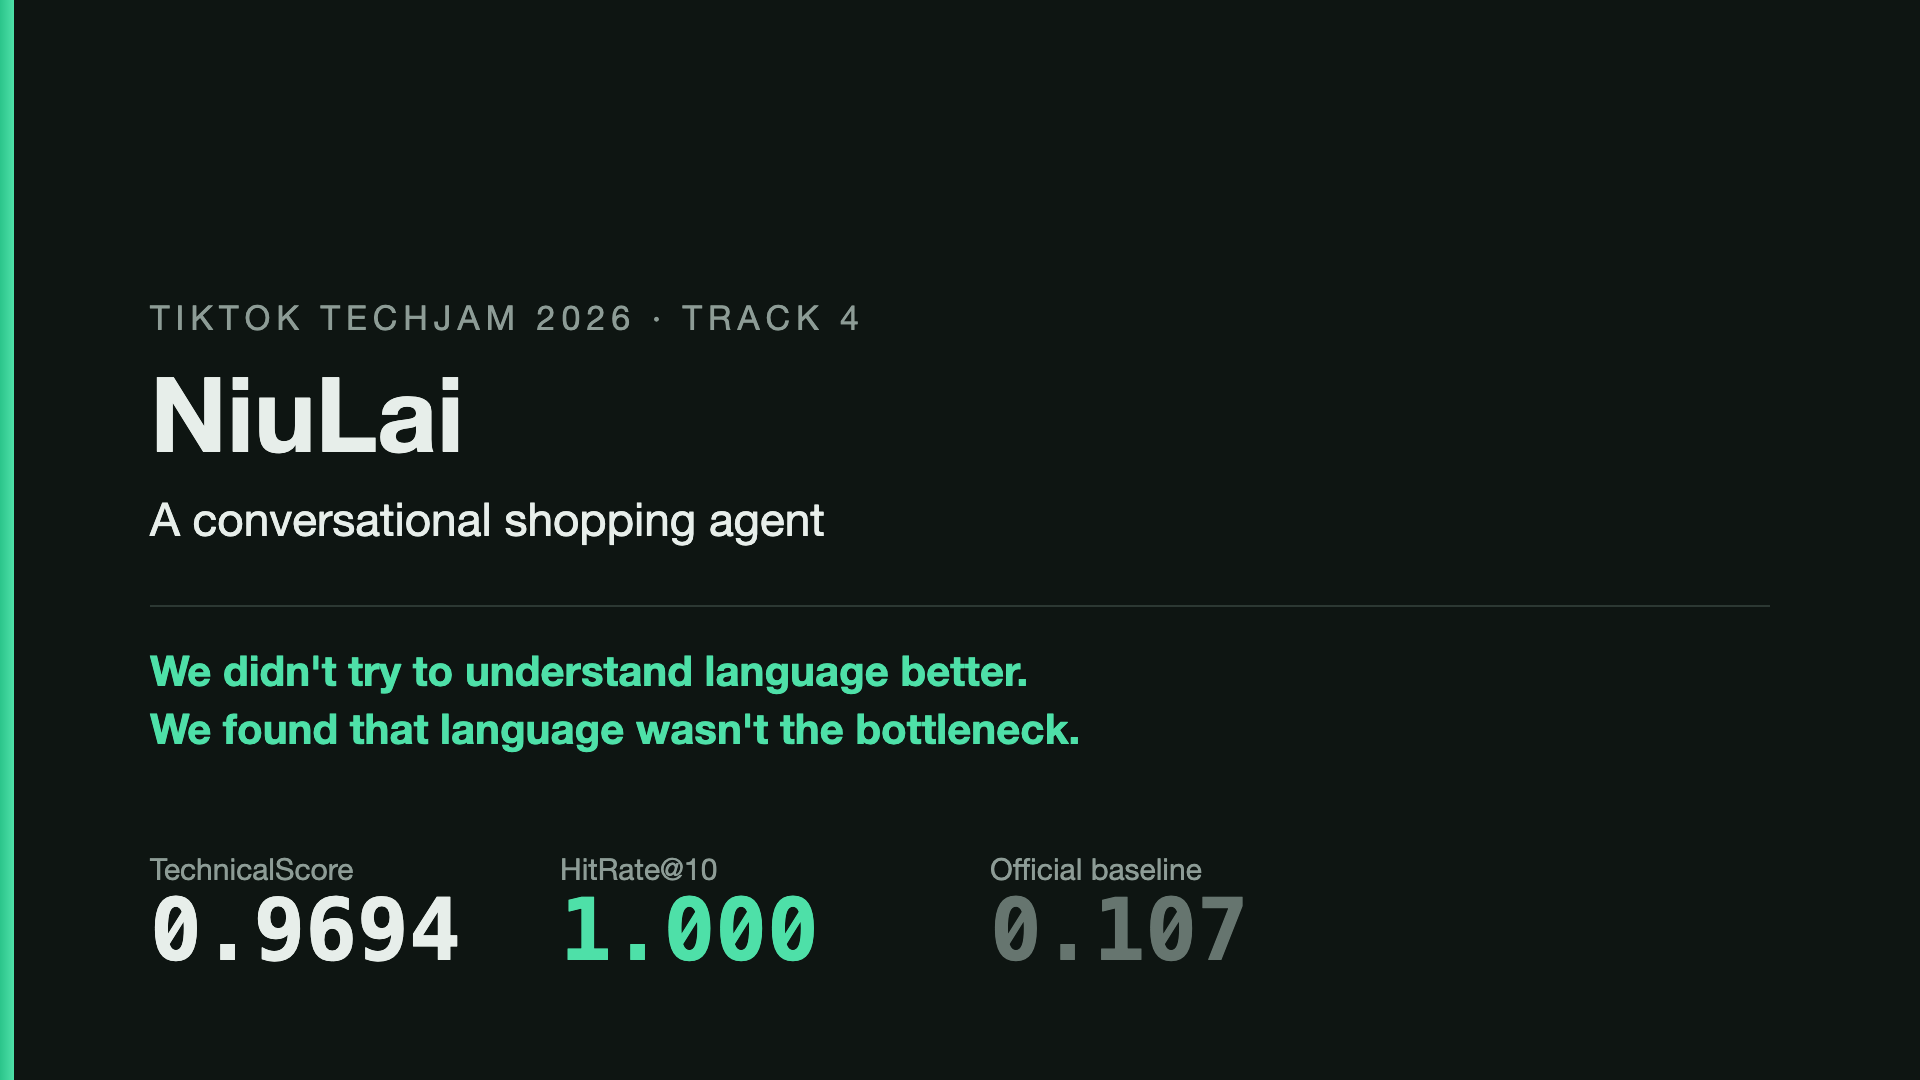
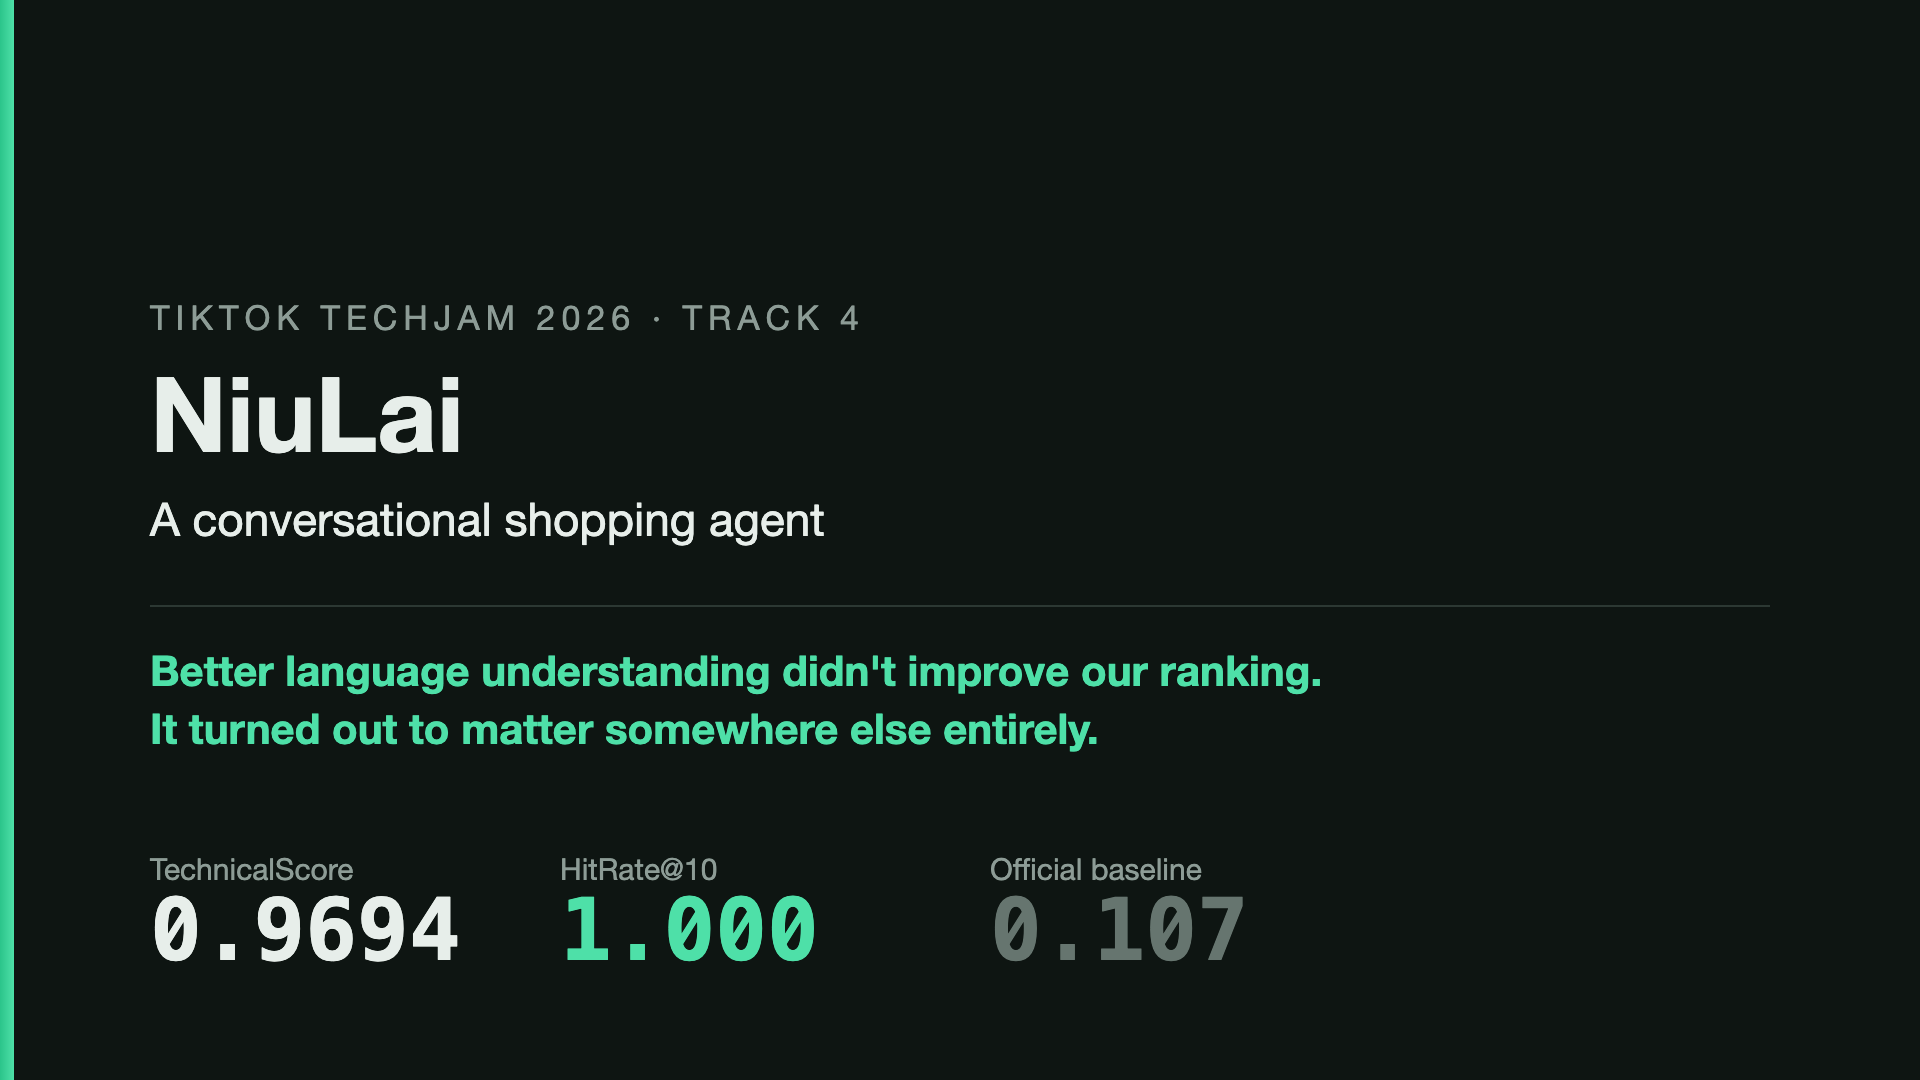
采纳 @BestBucky 的主张修正，并补上他没提到的一处：幕 5 从没还账
【他抓到的矛盾成立，是我漏了】
  片头卡原句 "We didn't try to understand language better. We found that language
  wasn't the bottleneck." 与 REPORT §5 直接矛盾——§5 说改写场景下语义是唯一能
  救回逐字信号的东西，实验 33 是 L4 规则 0.8486 → 加 LLM **0.9551**（+0.107，
  全项目单项最大的鲁棒性收益）。那句话只在**排序**维成立。
  已改为他推荐的版本："Better language understanding didn't improve our ranking.
  It turned out to matter somewhere else entirely."

【但采纳它有个前提，他没提到——我查了，幕 5 根本没还账】
  他的理由是"片头埋钩子、片尾还账"。查现稿：幕 5 只讲了 LLM 精排变差、
  以及我们量了改写风险，**从头到尾没有一句说 LLM 在理解上不可替代**。
  采纳新措辞会留下一个开了不关的钩子，那比直接下结论更糟。

  故同时给幕 5 补还账句：
    "And that is where the language model earned its place — not in ranking
     products, but in understanding a shopper who words things differently."

  顺带发现：**片子对 LLM 的处理原本是纯负面的**（"试了，更差"），
  而我们真正的结论是"排序没用、理解不可替代"——这个故事之前只讲了一半。
  他这一改逼出了另一半，成片比原来完整。

【代价】幕 5 84 → 107 词，全片 465 → 488 词 ≈ **3:29**。官方对视频时长无规定，值。
  真要压只能砍幕 4②（63 词，唯一可无损砍的），但不推荐——那是全片唯一让评委
  看到我们理解公私集差异的地方。

【还没录，所以这两处改动零成本】谢谢他在按下录制键之前发现。

复核了他替我改的两处统稿硬伤（实验条目数 35→66、三处中文链接改指
COST_AND_LATENCY.md），都对。

Changed region(s): [[0.0625, 0.6111, 0.6875, 0.7028]]

diff --git a/team/留言板.md b/team/留言板.md
@@ -441,6 +441,29 @@ REPORT.md       同样有一处引用
 都改成指 `COST_AND_LATENCY.md`。**评委不会点开中文文件名的链接，即使点了也读不了。**
 
 片尾卡已同步改成显示 `COST_AND_LATENCY.md`。
+
+---
+
+- **回复 @BestBucky（你抓到的矛盾是对的，采纳你的方案二，但补了一处你没提的）**
+
+  **① 你说得对，而且是我漏了。** 那句话在排序维成立，作为全局主张不成立——而 §5 恰恰是我们主动加的亮点章节，自己拆自己的台确实可惜。片头卡已改成你推荐的版本：
+  > *"Better language understanding didn't improve our ranking.*
+  > *It turned out to matter somewhere else entirely."*
+
+  **② 但采纳你的方案二有个前提，你没提到、我查了一下——幕 5 根本没还账。**
+  你说"片头埋的钩子片尾还账"。我去看了现稿，**幕 5 只说了 LLM 精排变差、以及我们量了改写风险，从头到尾没有一句说"LLM 在理解上不可替代"**。也就是说采纳你的措辞会留下一个**开了不关的钩子**——那比原来直接下结论更糟。
+
+  所以我同时给幕 5 补了还账句：
+  > *"**And that is where the language model earned its place** — not in ranking products,*
+  > *but in understanding a shopper who words things differently."*
+
+  **顺带发现：片子对 LLM 的处理原本是纯负面的**（"我们试了，更差"），而我们真正的结论是"排序没用、理解不可替代"——**这个故事之前只讲了一半**。你这一改逼出了另一半，成片比原来完整。
+
+  **③ 代价**：幕 5 从 84 词涨到 107 词，全片 465 → **488 词 ≈ 3:29**。官方对视频时长无任何规定，我认为值。**如果你觉得 3:29 太长，我砍幕 4② 那 63 词**（那是唯一可无损砍掉的一幕），但我不推荐——那幕是全片唯一让评委看到我们理解公私集差异的地方。
+
+  **④ 我还没录**，所以这两处改动**零成本**。谢谢你在我按下录制键之前发现它。
+
+  **⑤ 你替我改掉的两处统稿硬伤**（实验条目数 35→66、三处中文链接改指 `COST_AND_LATENCY.md`）我复核过，都对。"报告和视频对着评委说两个不同的数，比写错更糟"——这句我记下了。
 - **回复 @**：
 - **回复 @BestBucky**：**成稿没走样，四条都落实了；但片头卡那句话我认为立不住，建议改——不阻塞你开录。**
   **① 先答"有没有走样"——逐条核过，落实得比我预期的准：**

diff --git a/team/C-demo脚本.md b/team/C-demo脚本.md
@@ -25,9 +25,14 @@
 
 ## 一句话主张（全片围绕这句）
 
-> **EN** — *We didn't try to understand language better. We found that language wasn't the bottleneck.*
+> **EN** — *Better language understanding didn't improve our ranking. It turned out to matter somewhere else entirely.*
 >
-> 中文对照：我们没在"更懂语义"上卷，而是发现这个任务的瓶颈根本不在语义。
+> 中文对照：更懂语言并没有改善我们的排序——它的作用完全在别的地方。
+>
+> ⚠ **原稿是** *"We didn't try to understand language better. We found that language wasn't the bottleneck."*
+> @BestBucky 在 T-025 指出它与 REPORT §5 直接矛盾（§5：改写场景下语义是唯一能救回逐字信号的东西；
+> 实验 33 L4 规则 0.8486 → 加 LLM **0.9551**，是全项目单项最大的鲁棒性收益）。
+> 那句话只在**排序**这一维成立。现稿第一句准确、第二句埋钩子，**幕 5 已补还账句**。
 
 ---
 
@@ -166,6 +171,8 @@ Turn 2  User:  For that, what matters is: polyester; 75% Polyester, 20% Rayon, 5
 > We tested an LLM re-ranker. It made results **worse** — and we kept that finding in the log.
 > The organizers said the shopper's wording may be paraphrased.
 > The public set cannot show that, so we measured it ourselves.
+> **And that is where the language model earned its place** — not in ranking products,
+> but in understanding a shopper who words things differently.
 > And of the eight sessions we still do not rank first, **seven are provably impossible** —
 > identical intent cards, identical dialogue. One target has forty-six twins.
 > We proved our own ceiling.
@@ -178,6 +185,7 @@ Turn 2  User:  For that, what matters is: polyester; 75% Polyester, 20% Rayon, 5
 
 中文对照：快讲三件事。我们测了 LLM 精排，**结果是变差**，这个结论留在了实验记录里。
 官方说过用户话术可能被改写，公开集测不出来，所以我们自己写了压力测试去量它。
+**而语言模型的价值就在那里显现了**——不是给商品排序，是听懂一个换了说法的用户。
 还剩 8 条没排第 1 的会话里，**7 条是可证明不可能的**——意图卡相同、生成的对话一字不差，
 其中一条有 46 个孪生商品。**我们证明了自己的天花板。**
 零依赖、零网络、零 API 成本，200 条会话 10 秒跑完。
